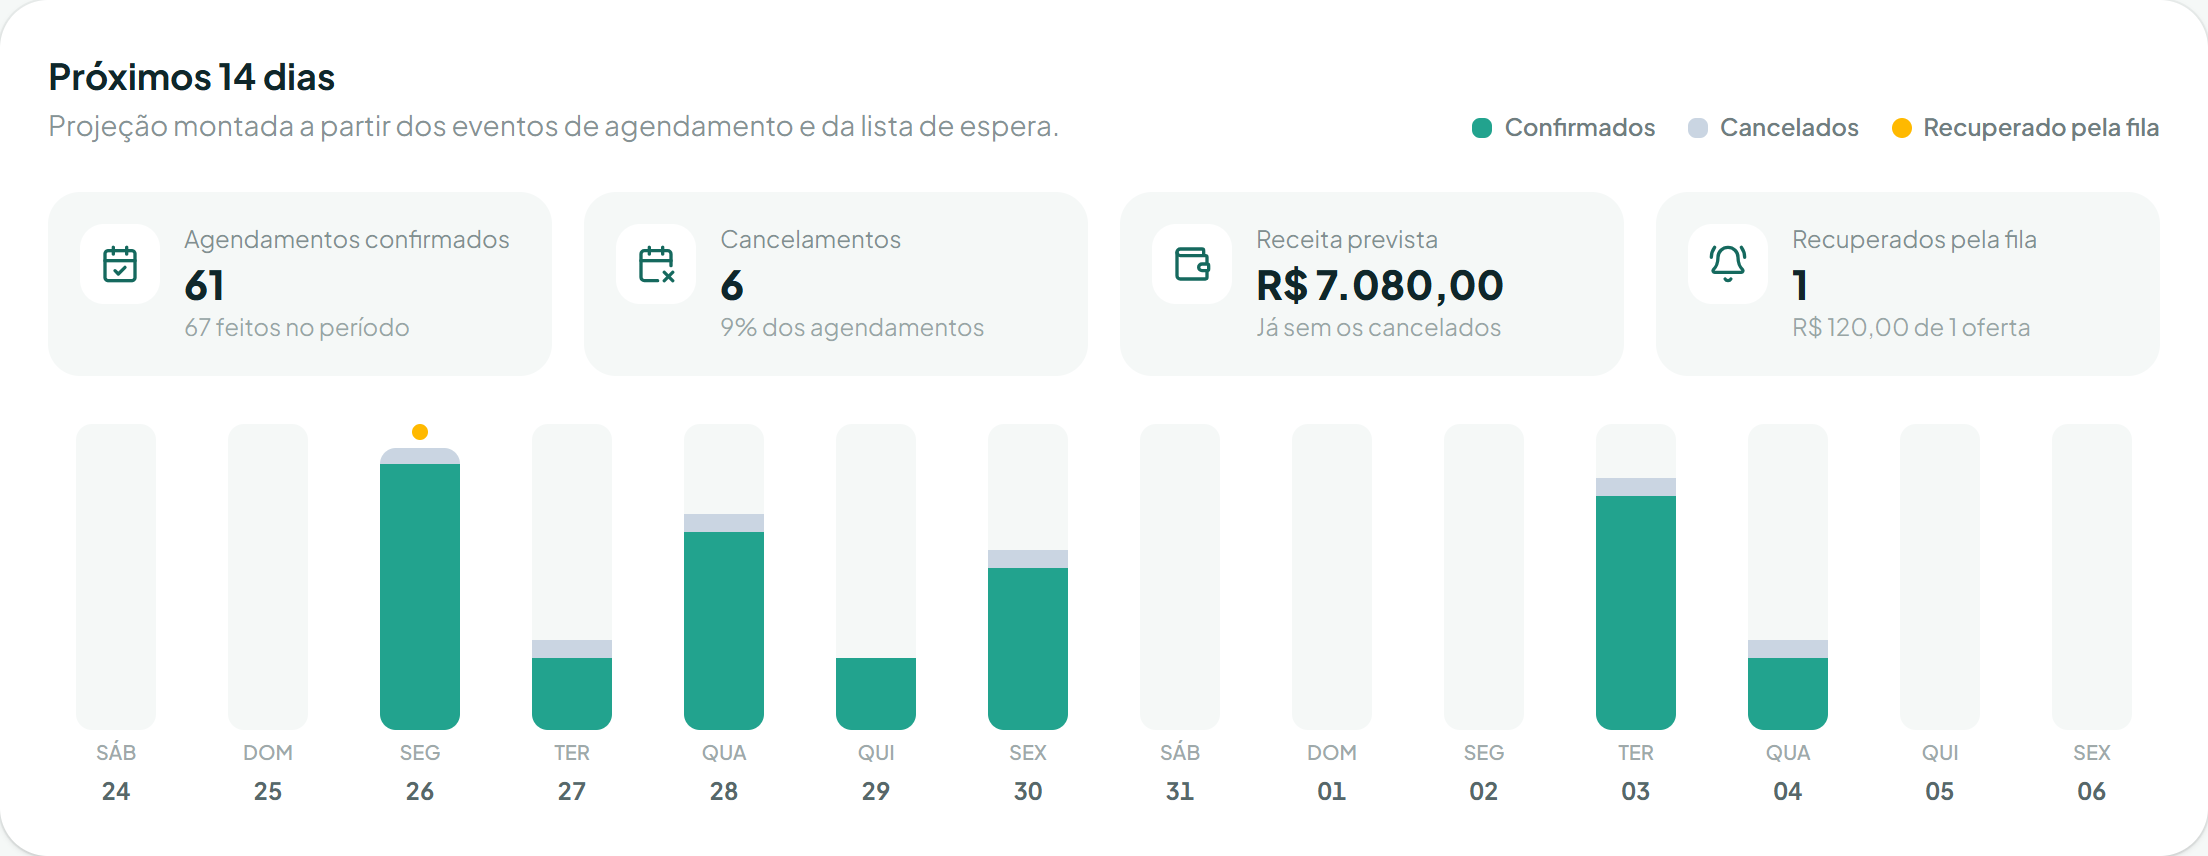
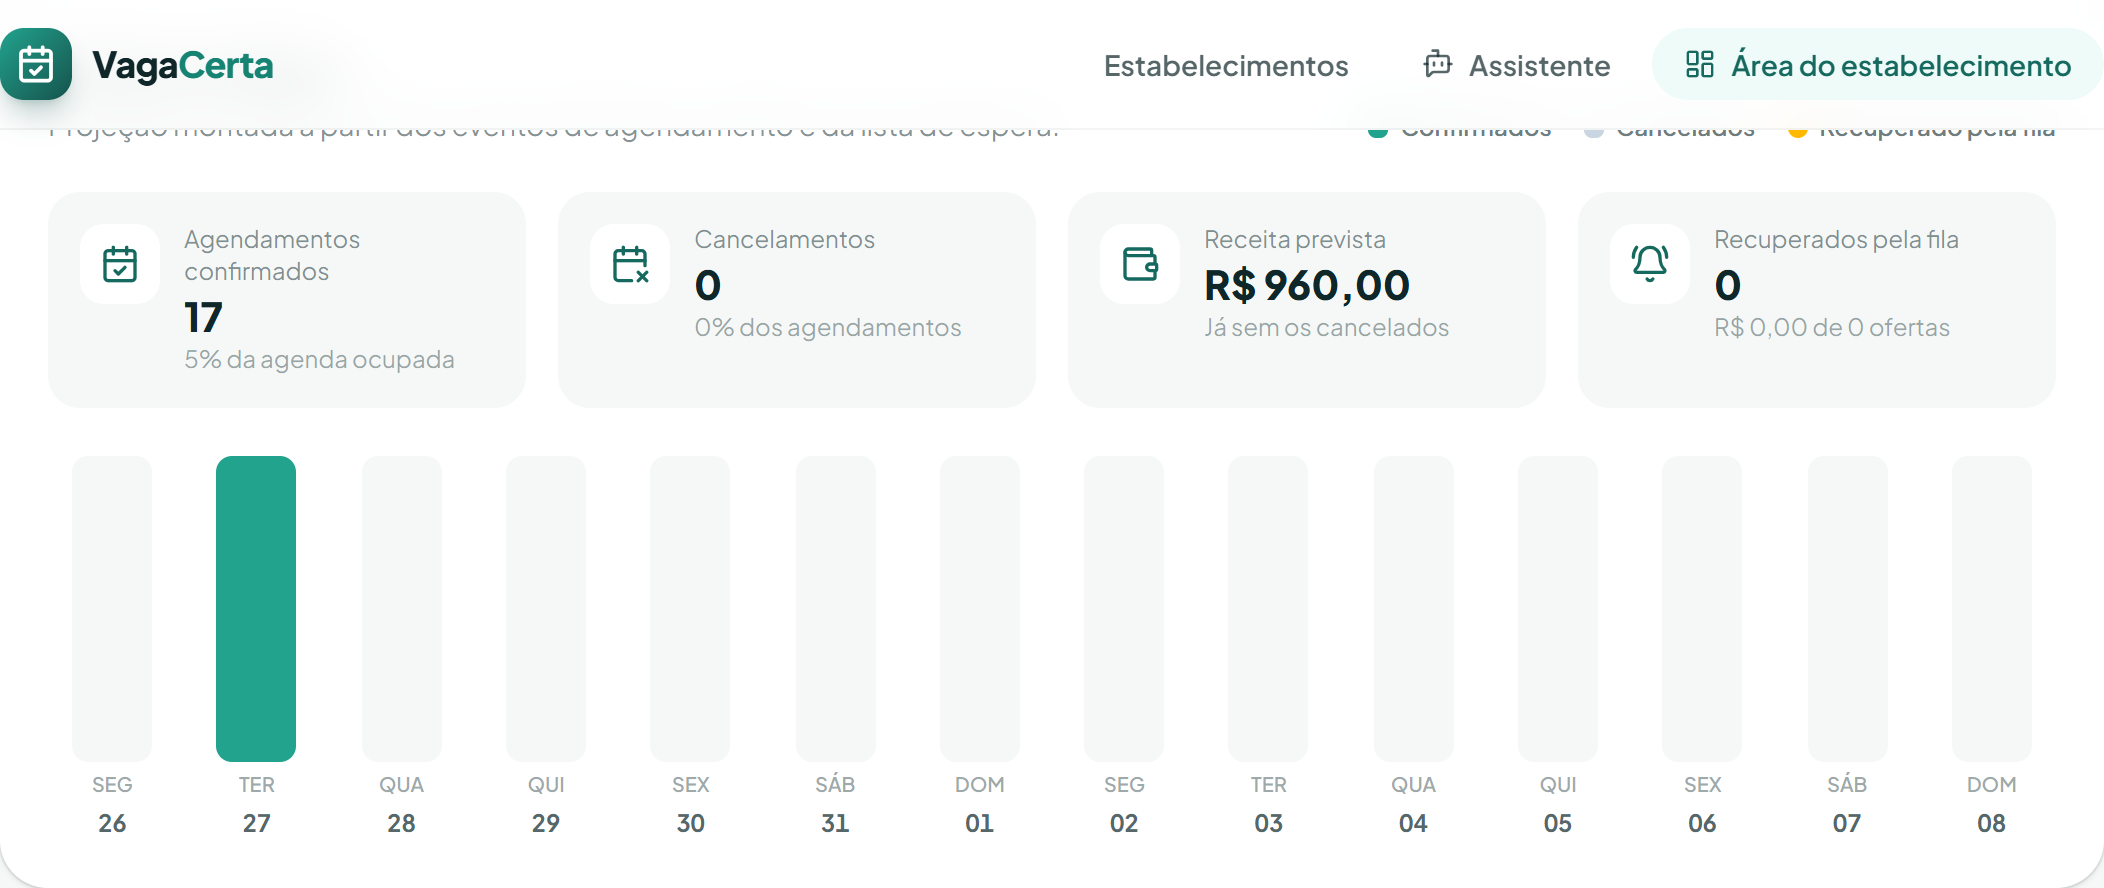
docs: document attendance, no-shows and occupancy
ADR 0015 records how the owner marks the outcome of a visit and how the
analytics service measures no-shows, occupancy and peak hours. The
README gets the new screenshots, endpoints, events and test count.

diff --git a/README.md b/README.md
@@ -82,8 +82,10 @@ O projeto evolui em fases, até uma arquitetura completa orientada a eventos. Ve
 
 - **Painel com login** (Keycloak): agenda do dia por profissional, totais, reservas da lista de espera e
   cancelamento com um clique, que já repassa a vaga para a fila.
-- **Próximos 14 dias:** agendamentos confirmados, cancelamentos, receita prevista e quanto a lista de
-  espera recuperou, dia a dia.
+- **Próximos 14 dias:** agendamentos confirmados, cancelamentos, receita prevista, ocupação da agenda e
+  quanto a lista de espera recuperou, dia a dia.
+- **Comparecimento:** depois do horário, o dono marca se a pessoa veio ou faltou. O painel mostra os
+  últimos 30 dias: atendimentos, taxa de faltas, ocupação média e um mapa dos horários mais procurados.
 
 **Por baixo**
 
@@ -114,7 +116,11 @@ O projeto evolui em fases, até uma arquitetura completa orientada a eventos. Ve
 
 | Painel: próximos 14 dias (Analytics) |
 |---|
-| <img src="docs/screenshots/painel-analytics.png" alt="Painel com agendamentos, cancelamentos, receita e recuperação pela fila nos próximos 14 dias" /> |
+| <img src="docs/screenshots/painel-analytics.png" alt="Painel com agendamentos, cancelamentos, receita, ocupação e recuperação pela fila nos próximos 14 dias" /> |
+
+| Painel: últimos 30 dias (faltas, ocupação e horários de pico) |
+|---|
+| <img src="docs/screenshots/painel-30-dias.png" alt="Painel com atendimentos, faltas, ocupação média e mapa de calor dos horários mais procurados" /> |
 
 | E-mail de confirmação | E-mail da lista de espera | Login (Keycloak com tema próprio) |
 |---|---|---|
@@ -251,6 +257,7 @@ Cada decisão está registrada numa ADR:
 | [0012](docs/adr/0012-kubernetes-com-kind-e-helm.md) | Kubernetes com kind e Helm |
 | [0013](docs/adr/0013-resiliencia-entre-servicos.md) | Resiliência entre serviços |
 | [0014](docs/adr/0014-qualidade-e-seguranca-na-esteira.md) | Qualidade e segurança na esteira |
+| [0015](docs/adr/0015-comparecimento-faltas-e-ocupacao.md) | Comparecimento, faltas e ocupação |
 
 ## Tecnologias
 
@@ -500,6 +507,7 @@ A documentação interativa completa fica em `/docs` em cada serviço.
 | `POST` | `/bookings` | público | Agenda um horário |
 | `GET` | `/bookings/{id}` | público | Detalhes do agendamento |
 | `POST` | `/bookings/{id}/cancel` | público | Cancela; o horário volta a ficar livre |
+| `POST` | `/bookings/{id}/outcome` | `owner` do estabelecimento | Registra, depois do horário, se a pessoa compareceu ou faltou |
 | `GET` | `/businesses/{id}/agenda?date=` | `owner` do estabelecimento | Agenda do dia, com reservas da lista de espera |
 | `POST` | `/holds` | `booking-holds` | Reserva temporária de um horário (saga) |
 | `POST` | `/bookings/{id}/confirm` | `booking-holds` | Transforma a reserva em agendamento |
@@ -517,7 +525,8 @@ A documentação interativa completa fica em `/docs` em cada serviço.
 
 | Método | Endpoint | Acesso | Descrição |
 |---|---|---|---|
-| `GET` | `/businesses/{id}/stats?from=&to=` | `owner` do estabelecimento | Agendamentos, cancelamentos, receita e ofertas da lista de espera por dia |
+| `GET` | `/businesses/{id}/stats?from=&to=` | `owner` do estabelecimento | Por dia: agendamentos, cancelamentos, receita, comparecimentos, faltas, minutos agendados, capacidade e ofertas da lista de espera |
+| `GET` | `/businesses/{id}/peak-hours` | `owner` do estabelecimento | Agendamentos por dia da semana e hora |
 
 ### Assistant — `:8006` · `/api/assistant`
 
@@ -575,6 +584,8 @@ curl -s http://localhost:8080/auth/realms/vagacerta/protocol/openid-connect/toke
 |---|---|---|---|
 | `booking.events` | `booking.created` | Um agendamento é confirmado | Notification, Analytics |
 | `booking.events` | `booking.cancelled` | Um agendamento confirmado é cancelado | Waitlist worker, Notification, Analytics |
+| `booking.events` | `booking.completed` | O dono registra que a pessoa compareceu | Analytics |
+| `booking.events` | `booking.no_show` | O dono registra que a pessoa faltou | Analytics |
 | `waitlist.events` | `waitlist.offer_created` | Um horário é reservado para alguém da fila | Notification, Analytics |
 | `waitlist.events` | `waitlist.offer_claimed` | A pessoa da fila confirma a oferta | Analytics |
 | `waitlist.events` | `waitlist.offer_expired` | A oferta expira sem confirmação | Analytics |
@@ -672,7 +683,7 @@ Conecte em `http://localhost:8080/mcp` com o transporte Streamable HTTP.
 ## Testes
 
 ```bash
-uv run pytest --cov      # 99 testes, com cobertura (os de integração sobem containers com Docker)
+uv run pytest --cov      # 106 testes, com cobertura (os de integração sobem containers com Docker)
 uv run lint-imports      # regras de arquitetura
 uv run mypy libs/*/src services/*/src
 uv run pre-commit run --all-files               # ruff, checagens de arquivos e gitleaks
@@ -713,7 +724,7 @@ Os contratos ficam em [`pacts/`](pacts), um arquivo por par consumidor e provedo
 | Waitlist | Catalog | Nomes e preços do estabelecimento, dos profissionais e dos serviços |
 | Waitlist | Booking | Reserva de horário livre e ocupado; confirmação e liberação, inclusive de reserva vencida; evento `booking.cancelled` |
 | Notification | Booking, Waitlist | `booking.created`, `booking.cancelled` e `waitlist.offer_created` |
-| Analytics | Booking, Waitlist | Eventos de agendamento e os três eventos de oferta |
+| Analytics | Booking, Waitlist, Catalog | Eventos de agendamento, comparecimento e oferta; expediente para calcular a ocupação |
 | MCP server | Catalog, Booking, Waitlist | Estabelecimentos, horários livres, agendamento, cancelamento e entrada na fila |
 
 Os testes dos consumidores rodam os clientes reais contra o mock do Pact e regravam os contratos. Os dos
@@ -754,8 +765,8 @@ no Docker Desktop de uma máquina de desenvolvimento.
       Pact; serviço de Analytics com CQRS
 - [x] **Fase 5** — Kubernetes com kind e Helm; agendamento em linguagem natural com LLM local (Ollama) e
       servidor MCP
-- [ ] **Fase 6** — qualidade e segurança na esteira e resiliência entre serviços (entregues na v0.6.0);
-      comparecimento, faltas e ocupação no Analytics; trilha de auditoria e webhooks de saída
+- [ ] **Fase 6** — qualidade e segurança na esteira e resiliência entre serviços (v0.6.0);
+      comparecimento, faltas e ocupação no Analytics (v0.7.0); trilha de auditoria e webhooks de saída
 
 O que mudou em cada versão está no [CHANGELOG](CHANGELOG.md).
 

diff --git a/docs/adr/0015-comparecimento-faltas-e-ocupacao.md b/docs/adr/0015-comparecimento-faltas-e-ocupacao.md
@@ -1,0 +1,36 @@
+# ADR 0015 — Comparecimento, faltas e ocupação
+
+**Status:** aceita
+
+## Contexto
+
+Falta é o principal problema que o VagaCerta promete atacar: lembretes e lista de espera existem para
+reduzir horário vazio. Mesmo assim, o sistema não sabia se a pessoa tinha vindo. O Analytics contava
+agendamentos e cancelamentos, mas não respondia às perguntas que o dono faz: quantos faltaram, quanto da
+agenda está ocupada e quais horários são mais procurados.
+
+## Decisão
+
+- **O dono registra o desfecho.** Depois que o horário começa, o painel mostra "Compareceu" e "Faltou".
+  O Booking só aceita o registro para agendamentos confirmados, do próprio estabelecimento, e publica
+  `booking.completed` ou `booking.no_show` pelo outbox.
+- **Analytics mede três coisas novas:**
+  - comparecimentos e faltas por dia, e a taxa de faltas sobre quem tinha horário;
+  - **ocupação**: minutos agendados divididos pelos minutos de expediente. O expediente vem do Catalog na
+    hora da consulta, com cache e o transporte resiliente; sem o Catalog, os números saem sem a
+    capacidade em vez de falhar;
+  - **horários de pico**: uma tabela por dia da semana e hora, no fuso do estabelecimento, que soma os
+    agendamentos e desconta os cancelamentos.
+- **A API de números devolve todos os dias do período**, inclusive os vazios. Sem isso, a ocupação média
+  ignoraria os dias sem agendamento e pareceria maior do que é.
+- **Dados de demonstração com histórico:** a clínica sobe com 30 dias de atendimentos, com mais procura
+  cedo e no fim da tarde e cerca de 12% de faltas, sempre os mesmos (semente fixa).
+
+## Consequências
+
+- O painel responde de cara a "quantos faltaram" e "quando estou mais cheio", e os números vêm só de
+  eventos, como o resto do Analytics.
+- Registrar o desfecho depende do dono. Sem registro, a visita fica como confirmada e não entra em
+  nenhuma das contas.
+- Mudanças no expediente valem para toda a série, porque a capacidade é calculada com o expediente atual.
+- Os horários de pico olham todo o histórico, sem janela de tempo.
